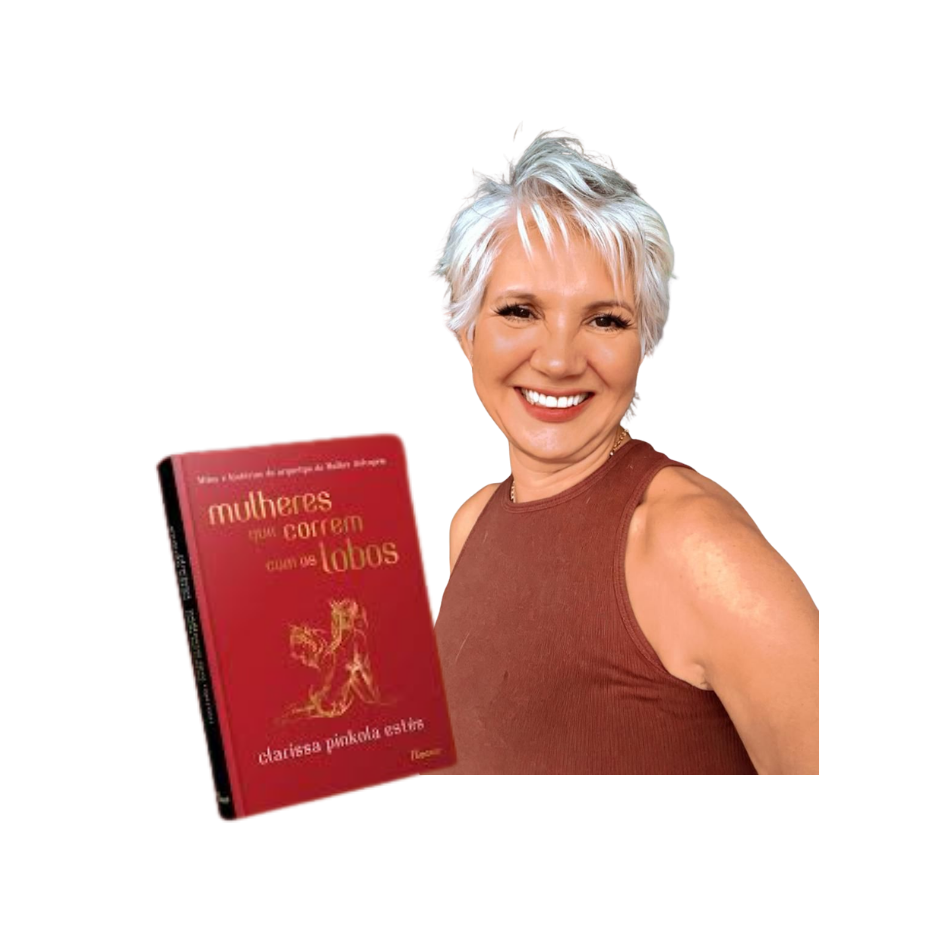
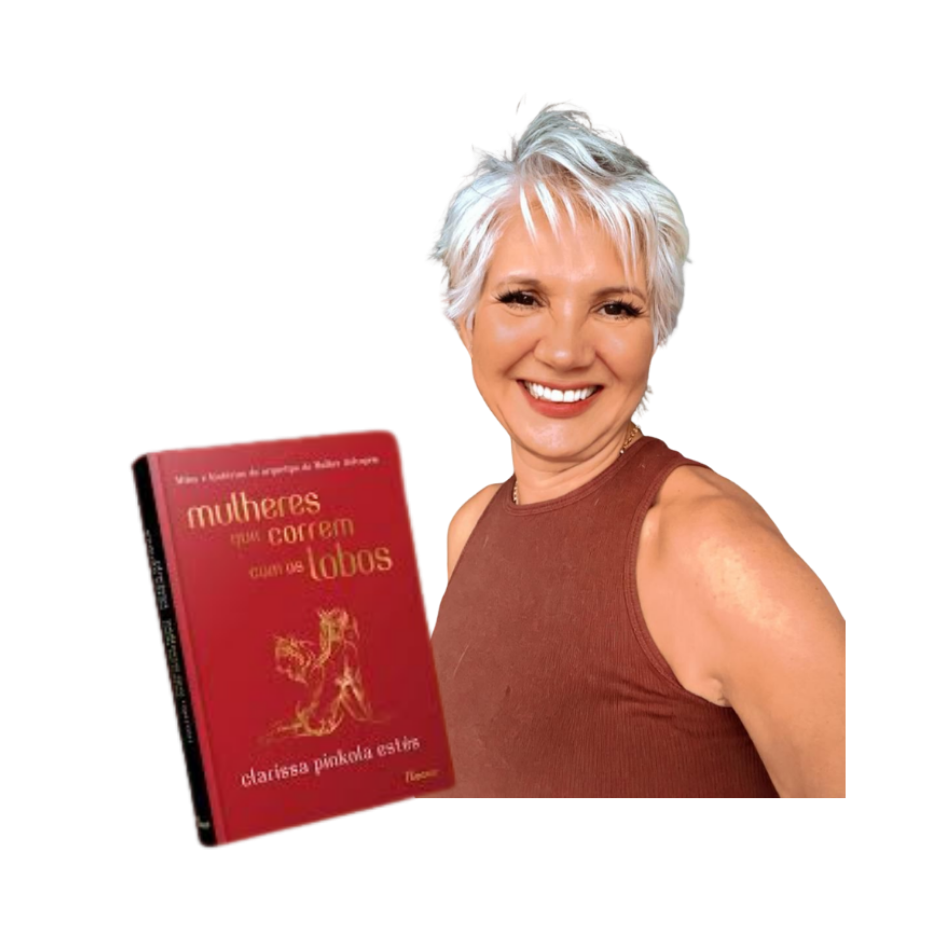
feat: nova foto + título Terapeuta Holística Mônica Langsdorff

Changed region(s): [[0.1228, 0.0921, 0.9206, 0.9206]]

diff --git a/src/index.tsx b/src/index.tsx
@@ -1175,7 +1175,7 @@ app.get('/', (c) => {
         <div class="sobre-foto-wrap">
           <img src="/static/foto-facilitadora.png" alt="Terapeuta Mônica Langsdorff segurando o livro Mulheres que Correm com os Lobos" />
           <div class="sobre-foto-nome">
-            <span class="sobre-foto-nome-titulo">Terapeuta</span>
+            <span class="sobre-foto-nome-titulo">Terapeuta Holística</span>
             <span class="sobre-foto-nome-nome">Mônica Langsdorff</span>
           </div>
         </div>
